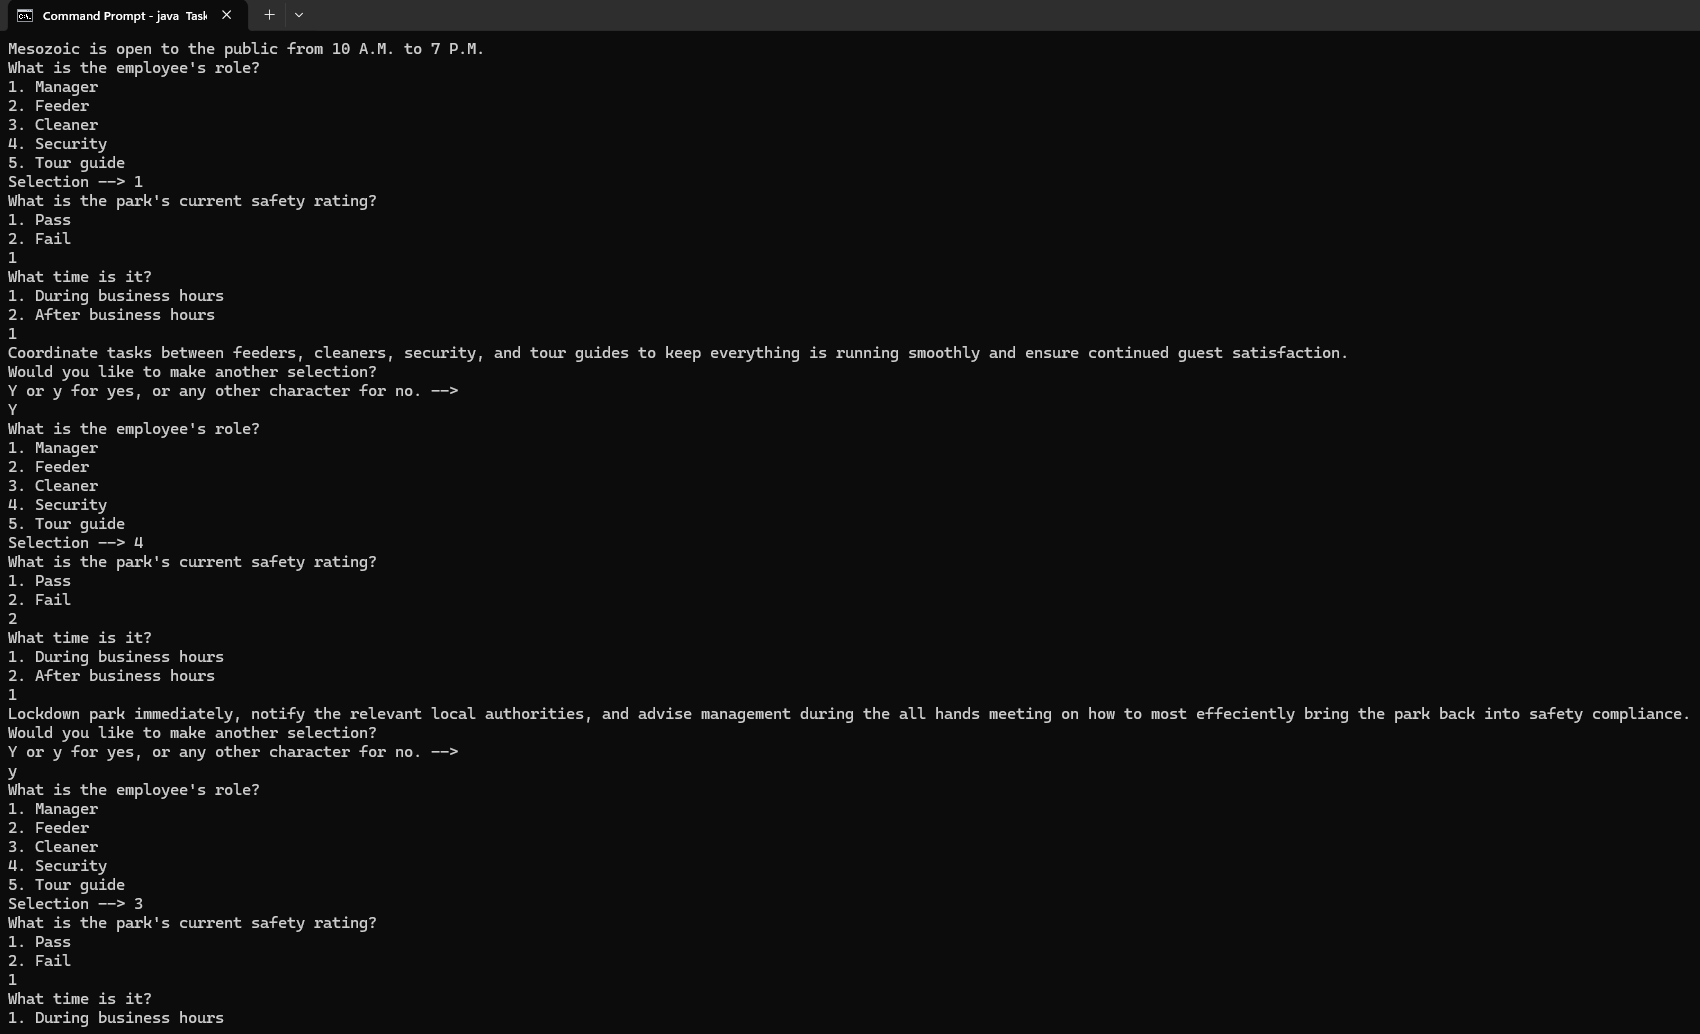
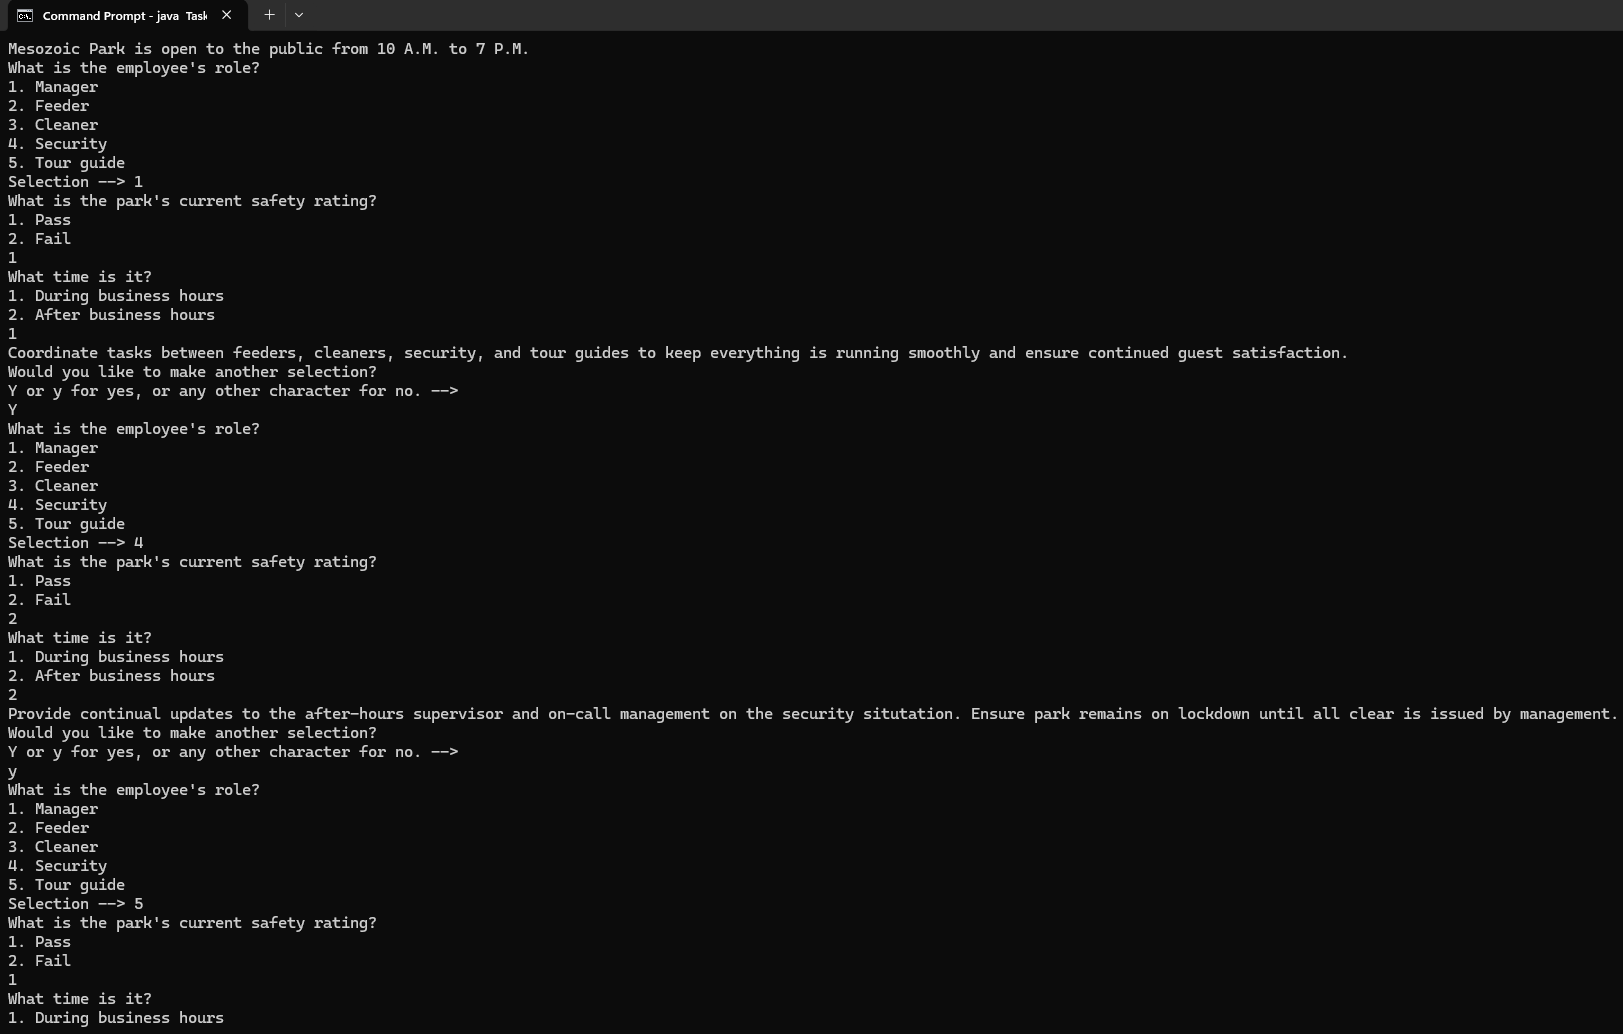
Add files via upload

Changed region(s): [[0.0, 0.3404, 0.9858, 0.9284], [0.0, 0.0, 0.3081, 0.3095], [0.0, 0.9594, 0.1232, 0.9903]]

diff --git a/TaskAllocationSystem.java b/TaskAllocationSystem.java
@@ -13,7 +13,7 @@ public class TaskAllocationSystem
 		char anotherSelection = 'n';
 		Scanner sc = new Scanner(System.in);
 
-		System.out.println("Mesozoic is open to the public from 10 A.M. to 7 P.M.");
+		System.out.println("Mesozoic Park is open to the public from 10 A.M. to 7 P.M.");
 		
 		do
 		{
